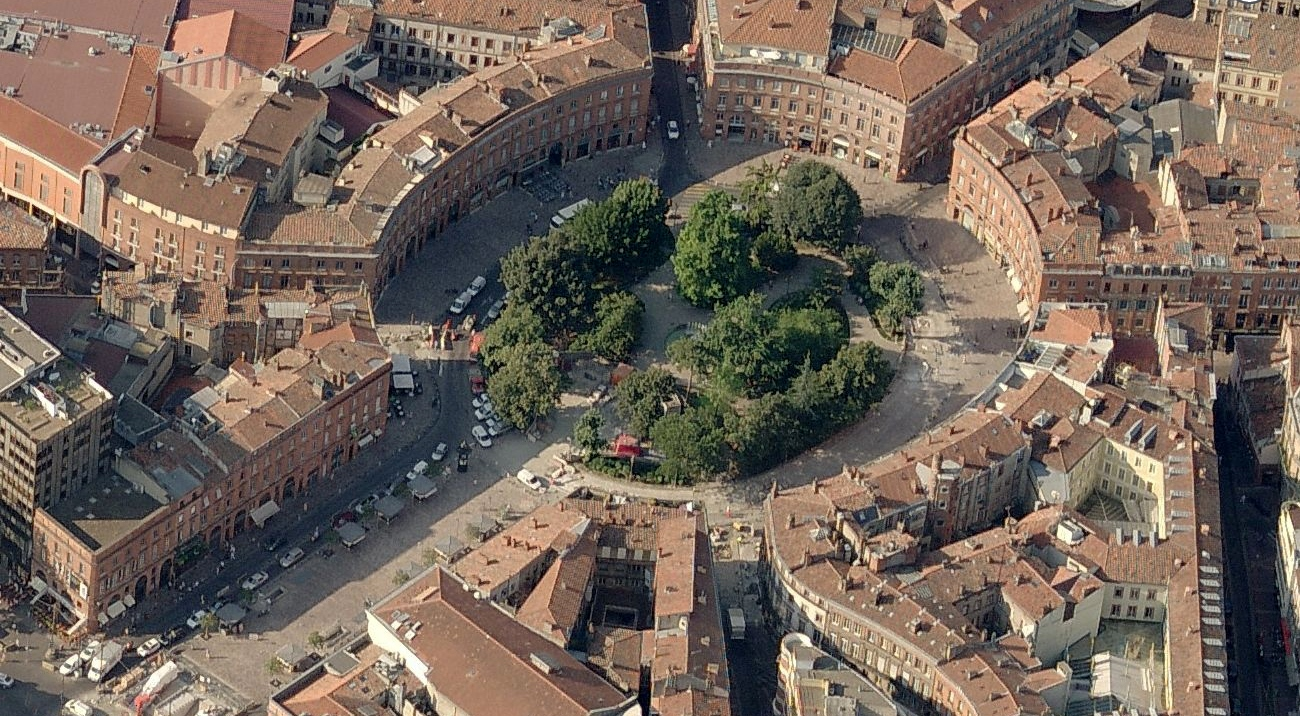
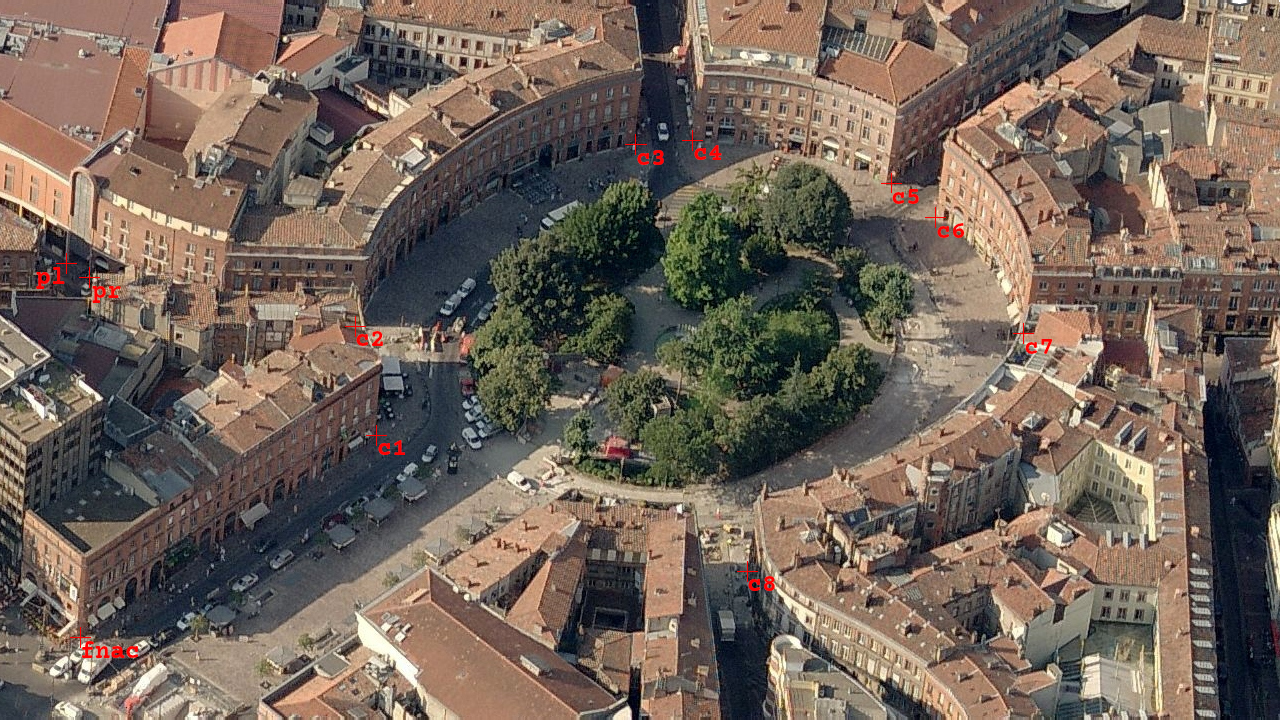
Changes 2020/05/23-14:45:31

diff --git a/main.cpp b/main.cpp
@@ -8,7 +8,7 @@ int main(int argc, char* argv[]) {
 	if(argc<3) { std::cerr<<"Usage: "<<argv[0]<<" [IMAGE_FILE POINTS_FILE MUSTACHE_TEMPLATE]" <<std::endl; return 0; }
 	sf::Event event;
 	Form form(argv[2], argv[3]);
-	Window window(1920, 1080, "PPicker", argv[1], form.cSize());
+	Window window(1280, 720, "PPicker", argv[1], form.cSize());
 
 	// Loop
 	form.message(window);
